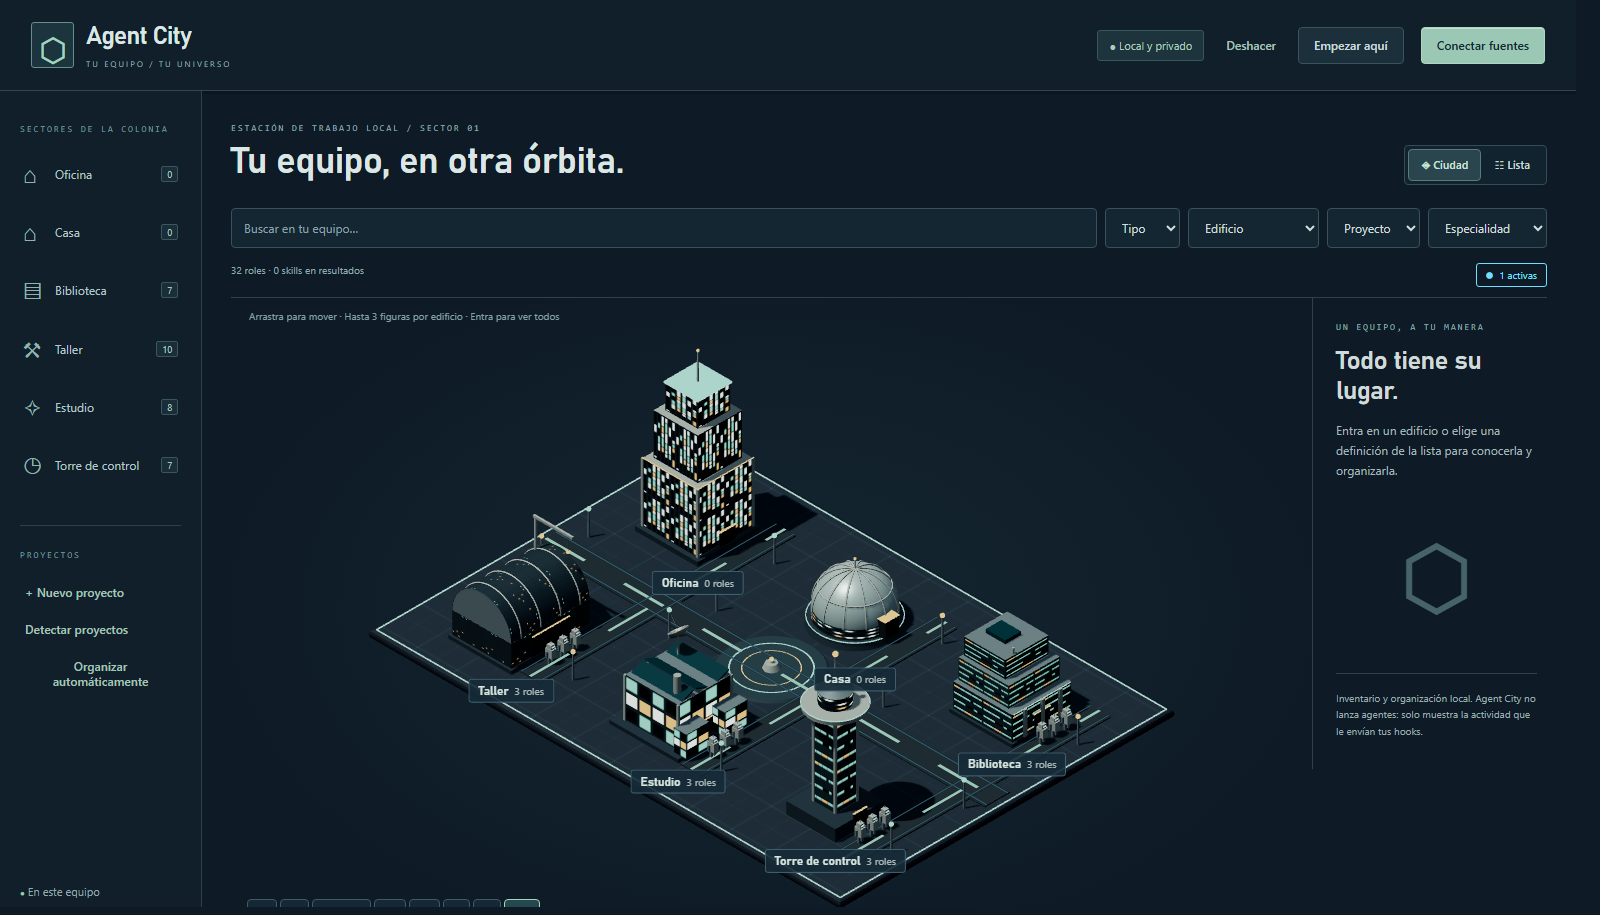
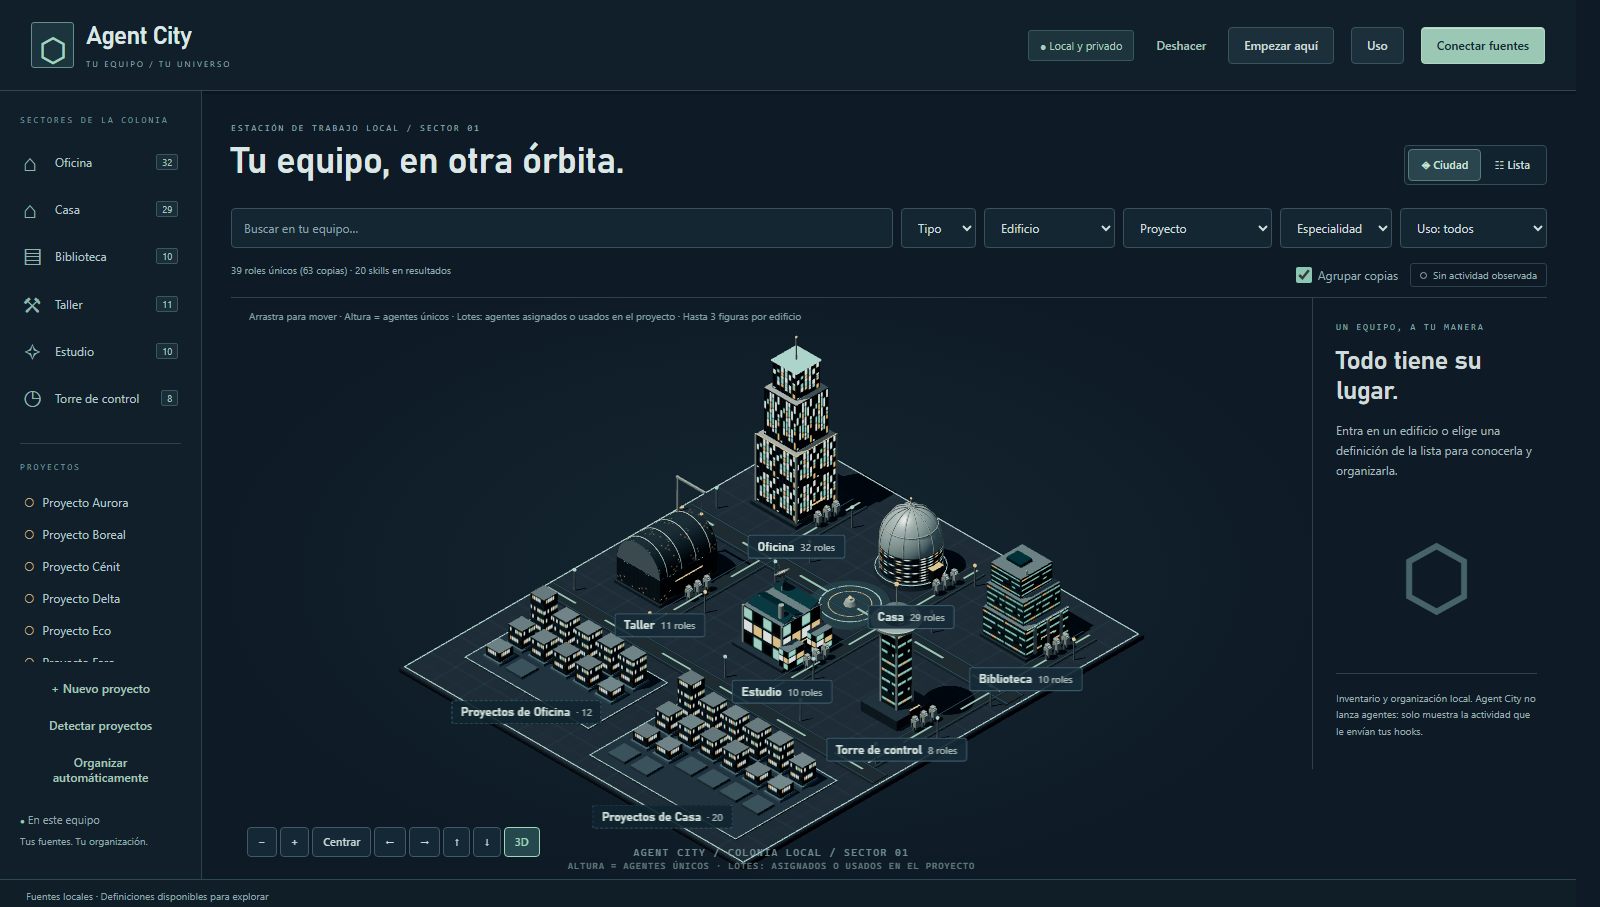
fix: no alarm for skipped links, grouped copies in pickers, new hero and social images

diff --git a/web/app.js b/web/app.js
@@ -915,7 +915,8 @@ function renameDialog(space) {
   );
   showDialog("Renombrar edificio", form);
 }
-function assignmentDialog(role, defaultSpace = "") {
+// `copies`: every copy of the same agent that should get the assignment (the picked group), the primary first.
+function assignmentDialog(role, defaultSpace = "", copies = [role]) {
   const space = select("space", org().spaces, defaultSpace, "Sin edificio");
   const project = select("project", org().projects, "", "Sin proyecto");
   const form = el(
@@ -931,19 +932,20 @@ function assignmentDialog(role, defaultSpace = "") {
         }
         if (
           await updateOrganization((o) => {
-            if (
-              !o.assignments.some(
-                (a) =>
-                  a.roleId === role.id &&
-                  (a.spaceId || "") === space.value &&
-                  (a.projectId || "") === project.value,
+            for (const copy of copies)
+              if (
+                !o.assignments.some(
+                  (a) =>
+                    a.roleId === copy.id &&
+                    (a.spaceId || "") === space.value &&
+                    (a.projectId || "") === project.value,
+                )
               )
-            )
-              o.assignments.push({
-                roleId: role.id,
-                ...(space.value ? { spaceId: space.value } : {}),
-                ...(project.value ? { projectId: project.value } : {}),
-              });
+                o.assignments.push({
+                  roleId: copy.id,
+                  ...(space.value ? { spaceId: space.value } : {}),
+                  ...(project.value ? { projectId: project.value } : {}),
+                });
           })
         ) {
           closeDialog();
@@ -951,7 +953,7 @@ function assignmentDialog(role, defaultSpace = "") {
         }
       },
     },
-    el("p", {}, role.name),
+    el("p", {}, role.name, copies.length > 1 ? ` · se asigna a las ${copies.length} copias` : ""),
     labeled("Edificio", space),
     labeled("Proyecto", project),
     el("p", { class: "form-error", role: "alert" }),
@@ -1208,6 +1210,27 @@ function openRoom(id) {
   showDialog(space.name, room, true);
   refreshRoleChips();
 }
+// One picker row per agent group (copies of the same agent collapse into «×N» and get the assignment together);
+// with «Agrupar copias» off every copy is listed on its own, as before.
+const pickerRow = (group, action) => {
+  const row = button(
+    el(
+      "span",
+      {},
+      el("strong", {}, group.primary.name),
+      copyBadge(group),
+      el(
+        "span",
+        { class: "source-caption" },
+        group.count > 1 ? originsText(group.origins) : originLabel(group.primary, rootLabels()),
+      ),
+    ),
+    action,
+    "inventory-row",
+  );
+  if (group.count > 1) row.title = copyLines(group);
+  return row;
+};
 function chooseRole(space) {
   const roles = data.catalog.filter((i) => i.kind === "role");
   const search = input("query", "Buscar un rol");
@@ -1215,13 +1238,13 @@ function chooseRole(space) {
   const list = el("div", { class: "picker-list" });
   const draw = () =>
     list.replaceChildren(
-      ...roles
-        .filter((i) =>
+      ...groupsOf(
+        roles.filter((i) =>
           i.name.toLocaleLowerCase().includes(search.value.toLocaleLowerCase()),
-        )
-        .map((i) =>
-          button(i.name, () => assignmentDialog(i, space), "inventory-row"),
         ),
+      ).map((group) =>
+        pickerRow(group, () => assignmentDialog(group.primary, space, group.items)),
+      ),
     );
   search.addEventListener("input", draw);
   draw();
@@ -1241,28 +1264,22 @@ function skillLinkDialog(role) {
   const search = input("query", "Buscar una skill por nombre");
   search.required = false;
   const list = el("div", { class: "picker-list" });
+  // Copies of the same skill collapse into one row; the link points at the group's primary copy.
   const draw = () =>
     list.replaceChildren(
-      ...data.catalog
-        .filter(
+      ...groupsOf(
+        data.catalog.filter(
           (i) =>
             i.kind === "skill" &&
             i.name
               .toLocaleLowerCase()
               .includes(search.value.toLocaleLowerCase()),
-        )
-        .map((i) =>
-          button(
-            el(
-              "span",
-              {},
-              el("strong", {}, i.name),
-              el(
-                "span",
-                { class: "source-caption" },
-                `${data.roots.find((root) => root.id === i.source?.rootId)?.label || i.source?.rootId || "Fuente desconocida"} · ${i.source?.relativePath || "Ruta no disponible"}`,
-              ),
-            ),
+        ),
+      )
+        .map((group) => [group, group.primary])
+        .map(([group, i]) =>
+          pickerRow(
+            group,
             async () => {
               if (
                 await updateOrganization((o) => {
@@ -1282,7 +1299,6 @@ function skillLinkDialog(role) {
                 selectItem(role.id);
               }
             },
-            "inventory-row",
           ),
         ),
     );
@@ -1584,7 +1600,12 @@ function detail() {
       el("h3", {}, "Sus lugares"),
       button(
         "+ Asignar edificio o proyecto",
-        () => assignmentDialog(item),
+        () =>
+          assignmentDialog(
+            item,
+            "",
+            grouping() ? data.catalog.filter((i) => groupKey(i) === groupKey(item)) : [item],
+          ),
         "button quiet",
       ),
     );

diff --git a/web/model.js b/web/model.js
@@ -22,10 +22,15 @@ export function projectsForSpace(org, spaceId) {
   );
 }
 
+// Links and junctions are skipped on purpose (their content enters through the original folder), so a source whose
+// only note is «Enlace excluido: …» is complete and must not raise an alarm.
+const LINK_NOTE = /^Enlace excluido/;
 export function sourceIssues(roots) {
-  return roots.filter(
-    (root) => root.status !== "success" || root.diagnostics?.length,
-  );
+  return roots.filter((root) => {
+    const notes = root.diagnostics ?? [];
+    if (notes.some((note) => !LINK_NOTE.test(note))) return true;
+    return root.status !== "success" && !(root.status === "partial" && notes.length > 0);
+  });
 }
 
 export function roleIdsForSpace(org, spaceId) {
